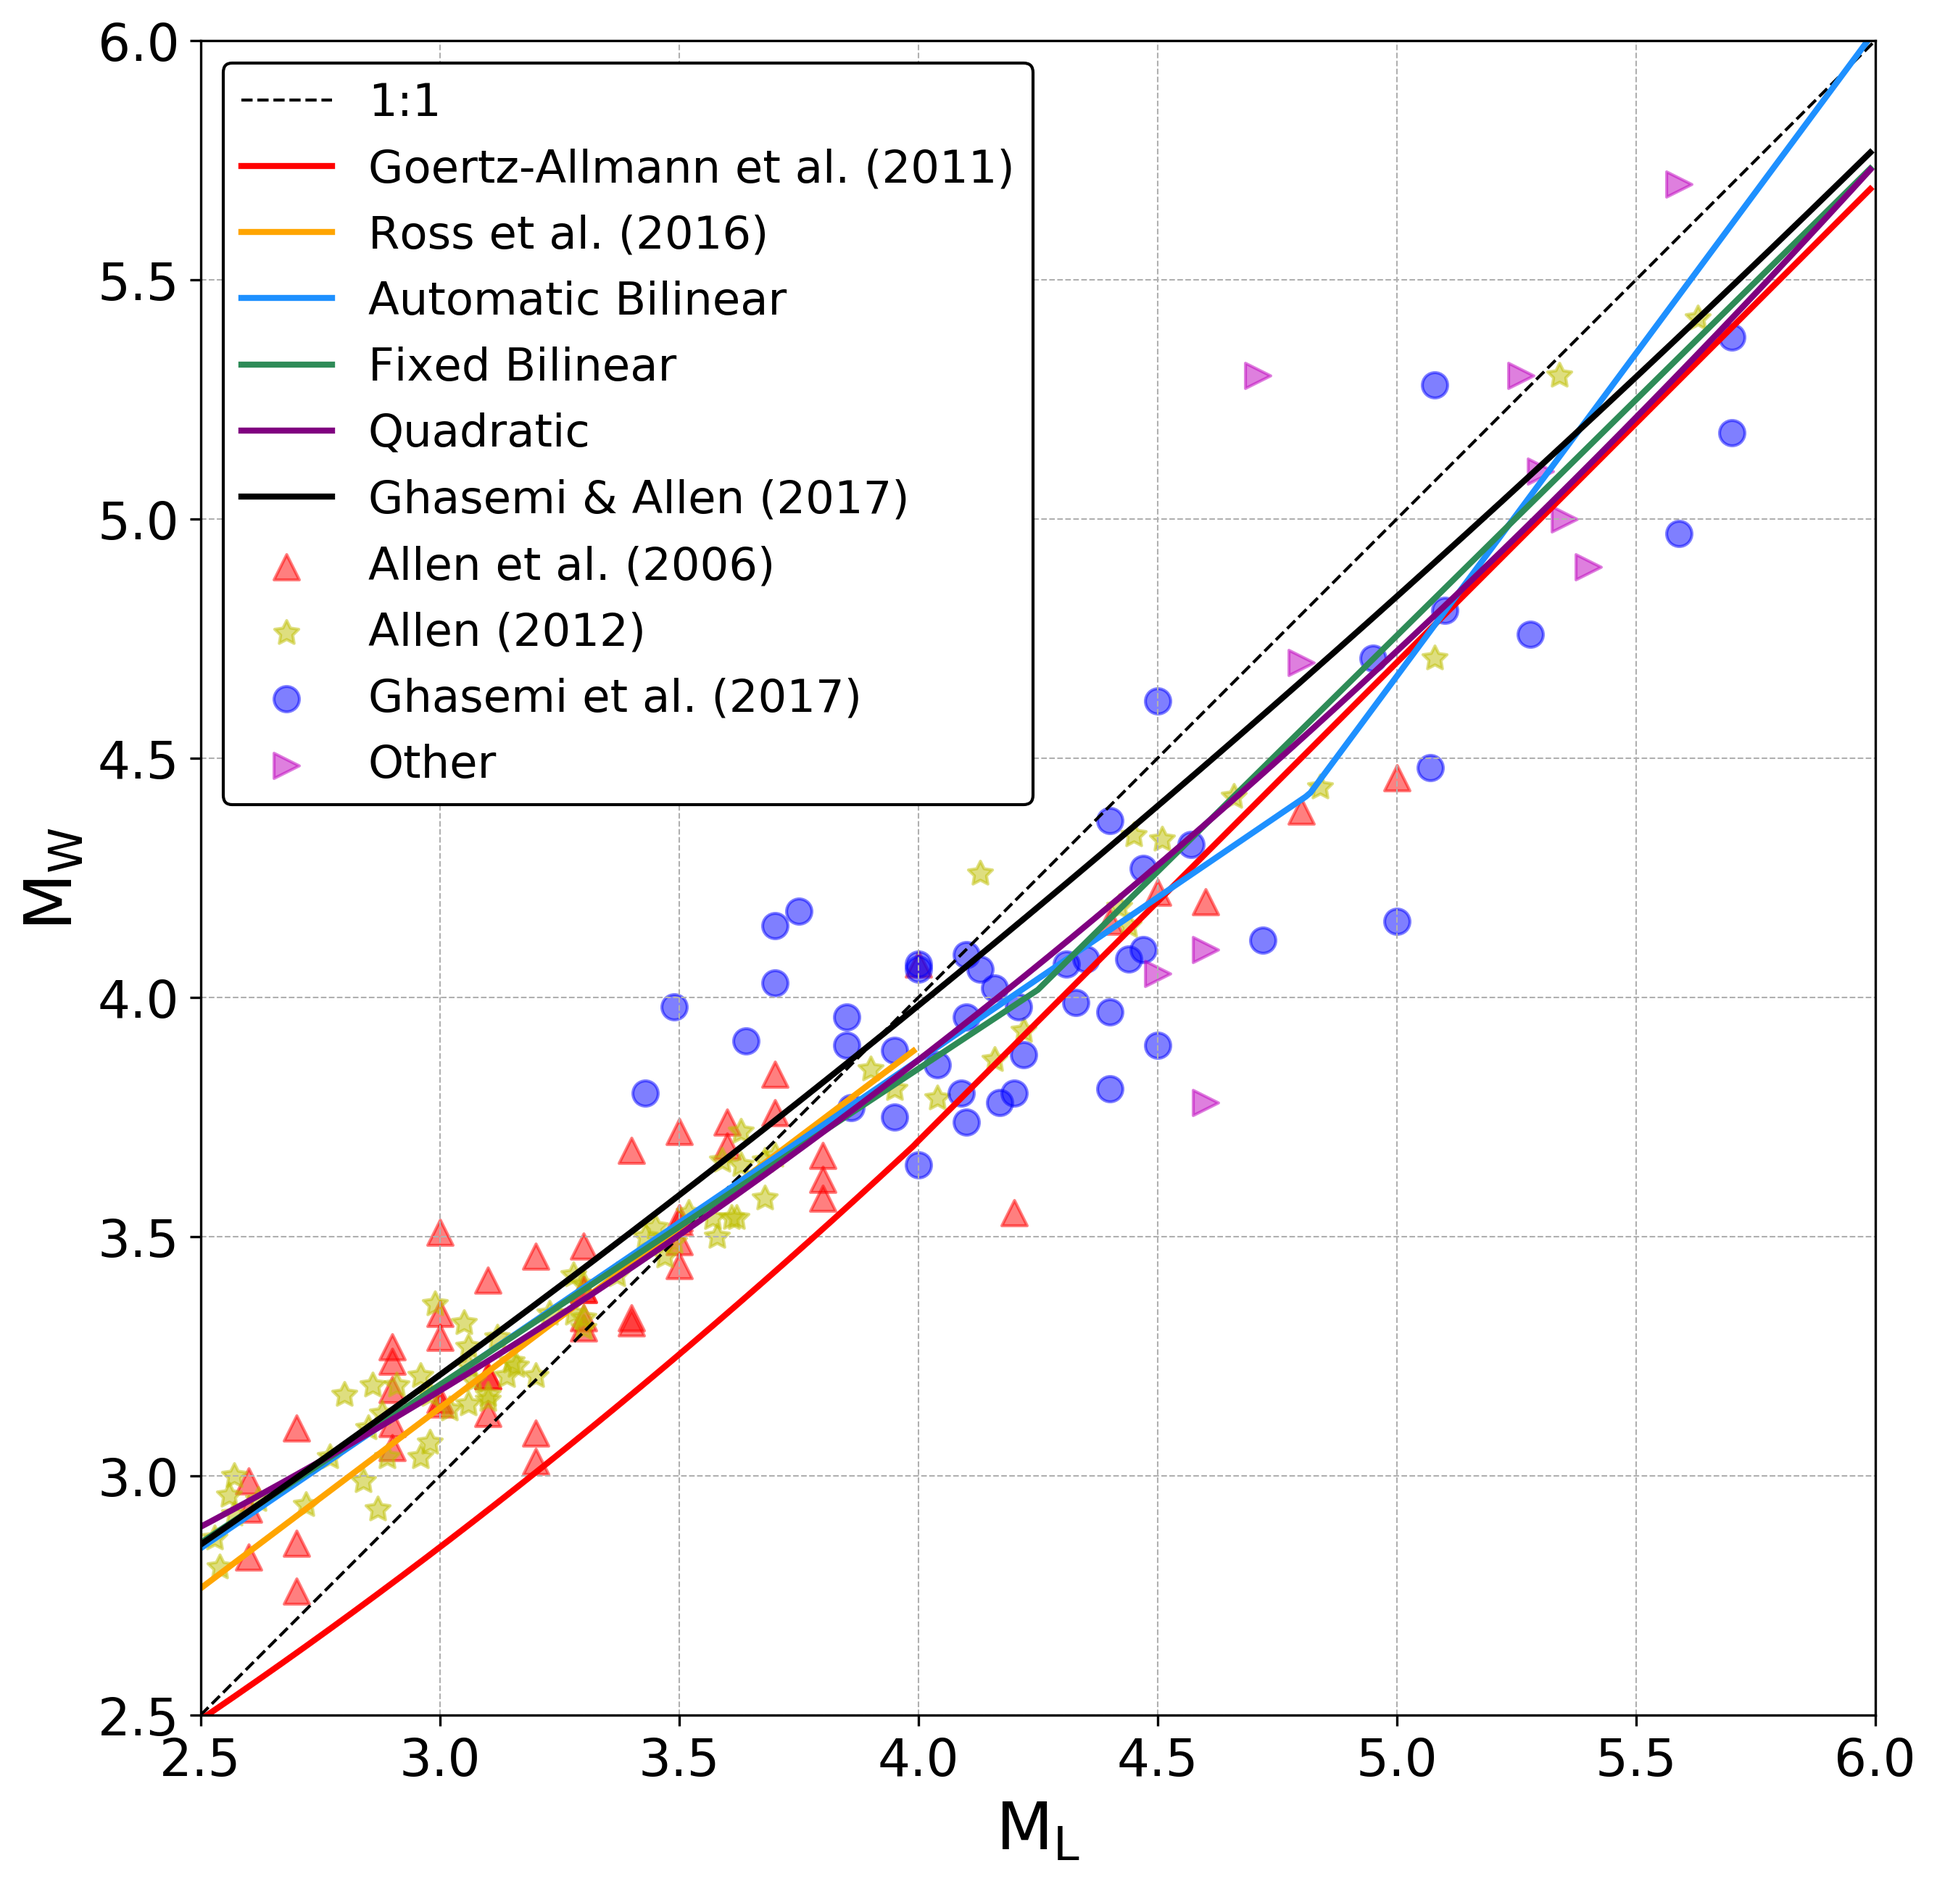
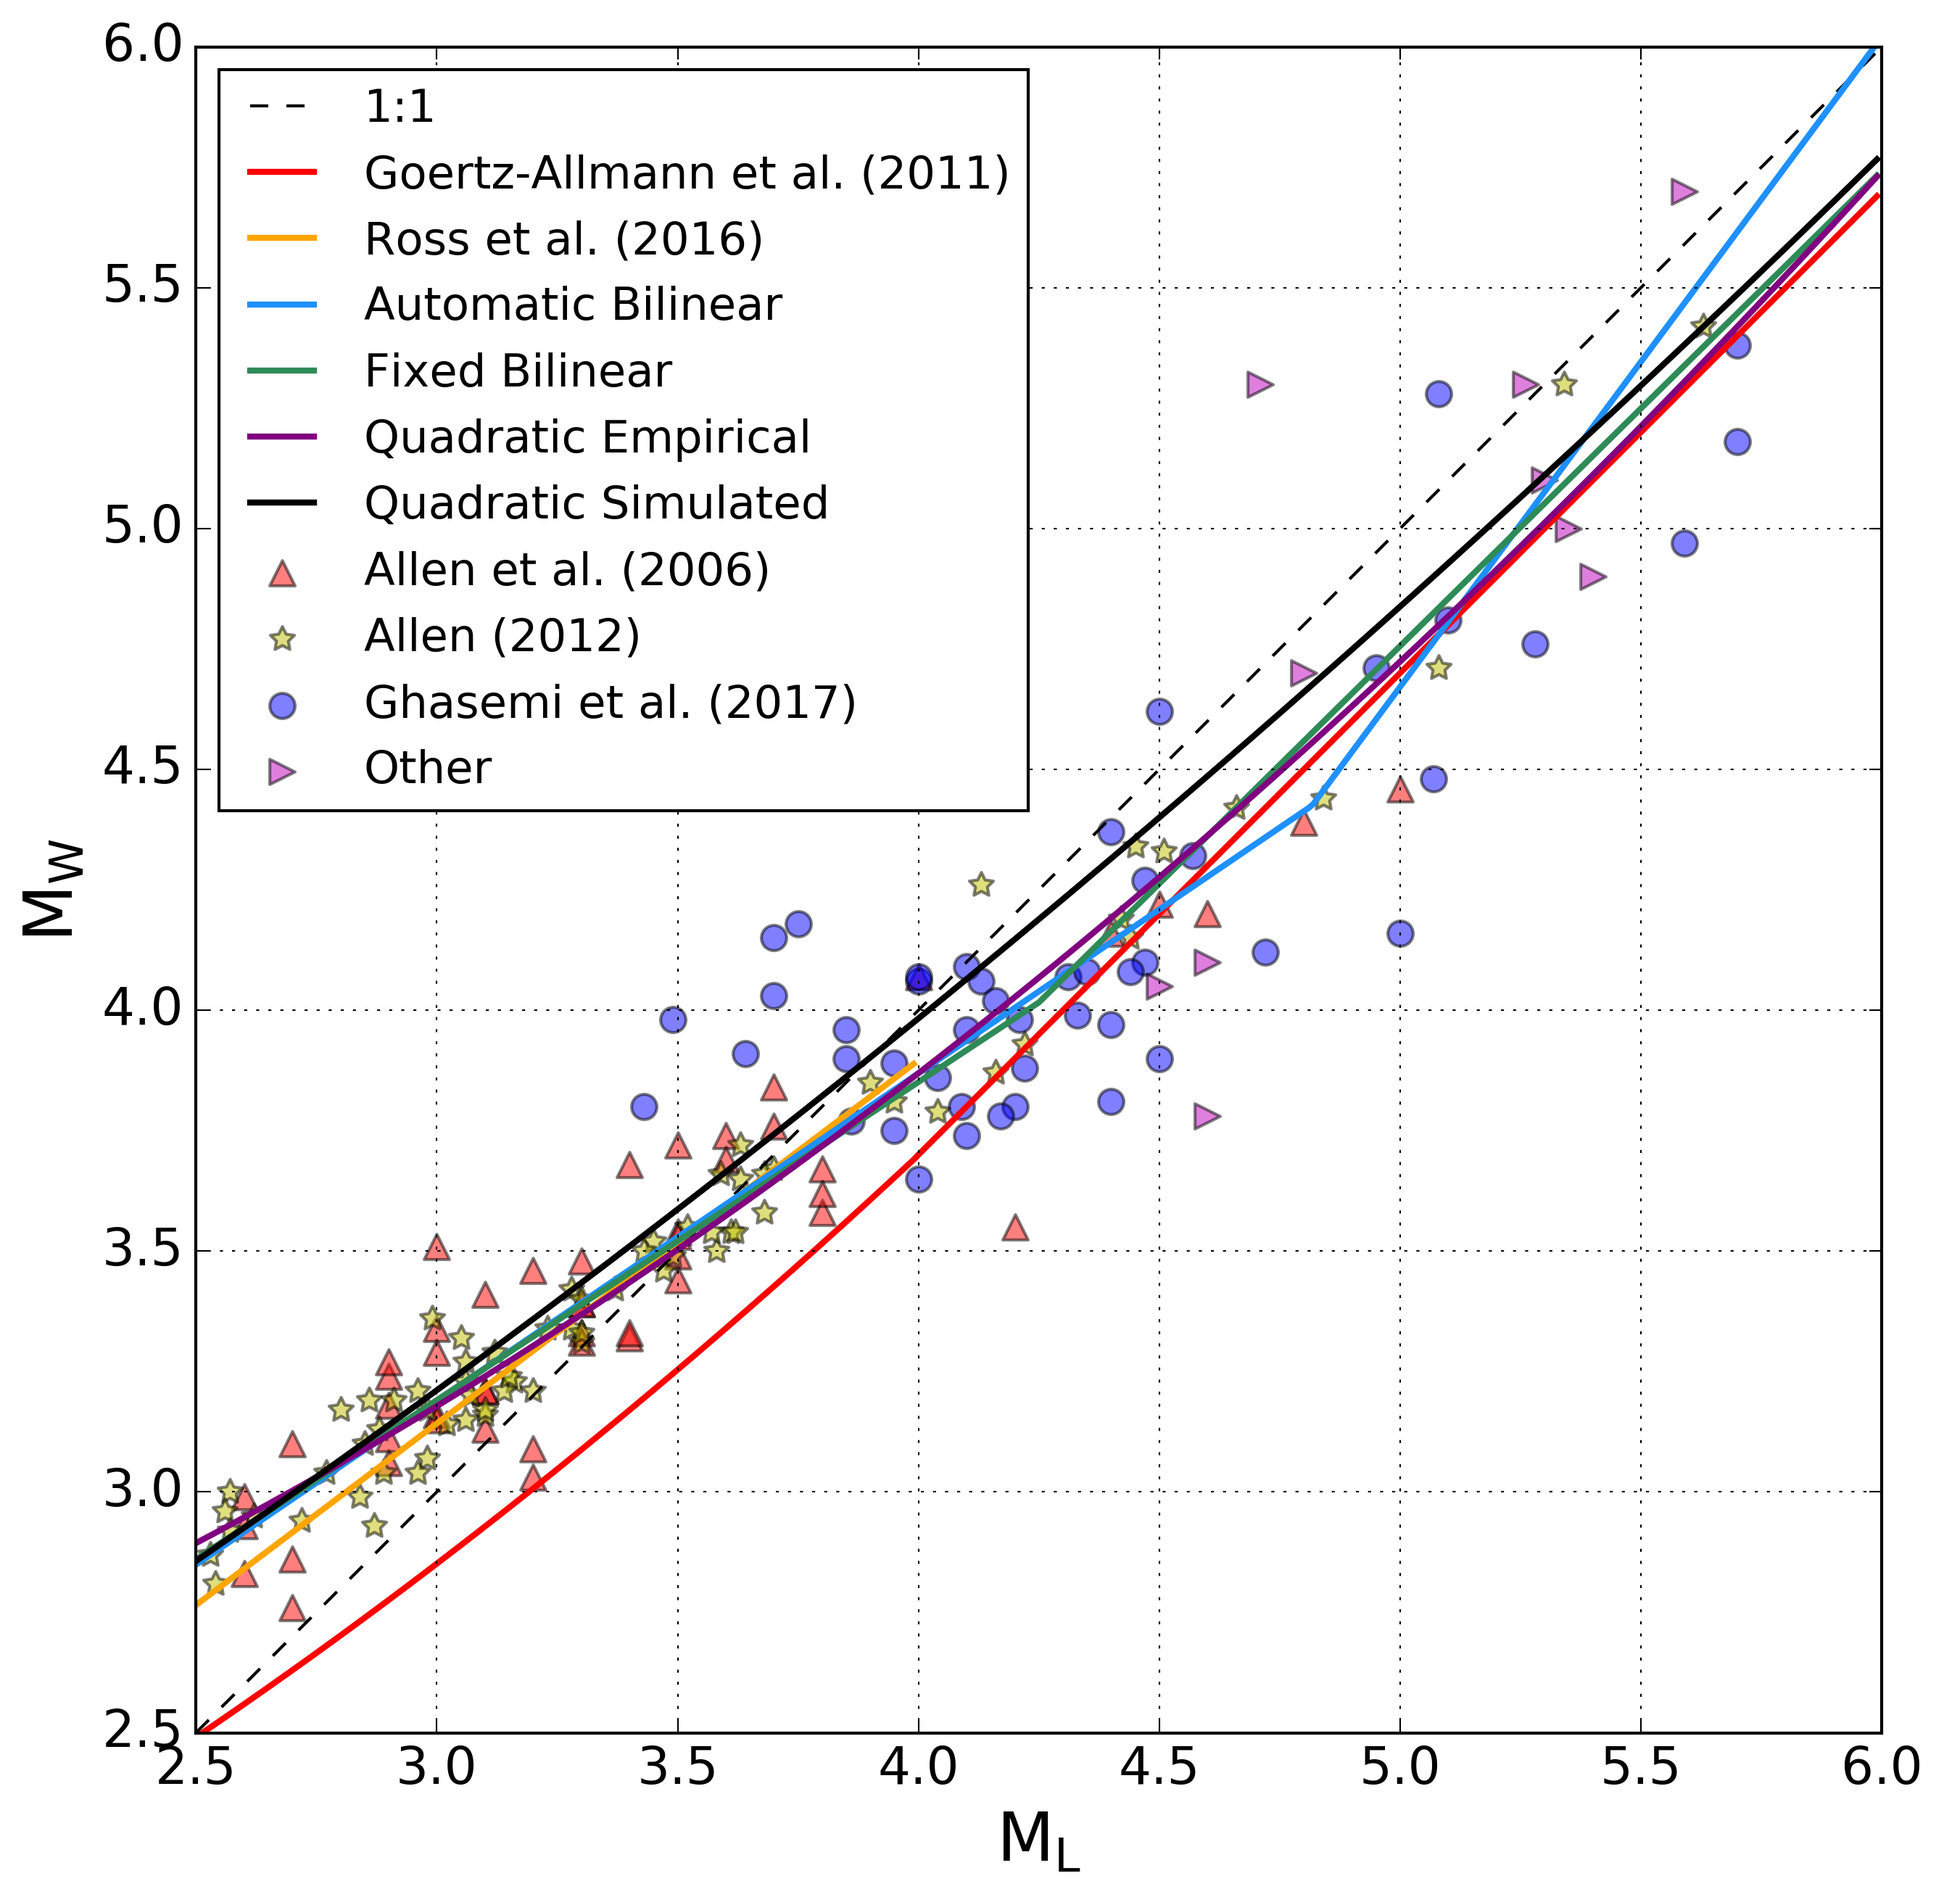
resetting use of mpl classic

diff --git a/catalogue/conversions/regress_ml2mw.py b/catalogue/conversions/regress_ml2mw.py
@@ -1,15 +1,13 @@
 import numpy as np
 import matplotlib.pyplot as plt
-
 import scipy.odr.odrpack as odrpack
 from collections import OrderedDict
 import pdb
 from misc_tools import checkfloat
 from os import path
 
-########
-#hxfix = 4.
-########
+import matplotlib as mpl
+mpl.style.use('classic')
 
 def highside(x, hx):
     from numpy import zeros_like
@@ -69,7 +67,7 @@ def f(B, x):
 
 ####################################################################
 # parse file
-nsha_file = path.join(..','data','NSHA18CAT.ML-MW.csv')
+nsha_file = path.join('..','data','NSHA18CAT.ML-MW.csv')
 
 lines = open(nsha_file).readlines()[1:]
 
@@ -284,7 +282,7 @@ leg = ax.legend(loc="upper left",ncol=1, scatterpoints=1,fontsize=15)
 leg.get_frame().set_alpha(1.0)
 leg.get_frame().set_edgecolor('k')
 ax.set_aspect('equal')
-ax.grid(which='major',ls='--',lw=0.5)
+ax.grid(which='major')
 ax.tick_params(axis='both', labelsize=17)
 #
 plt.savefig('ml2mw.png',dpi=300,bbox_inches='tight')
